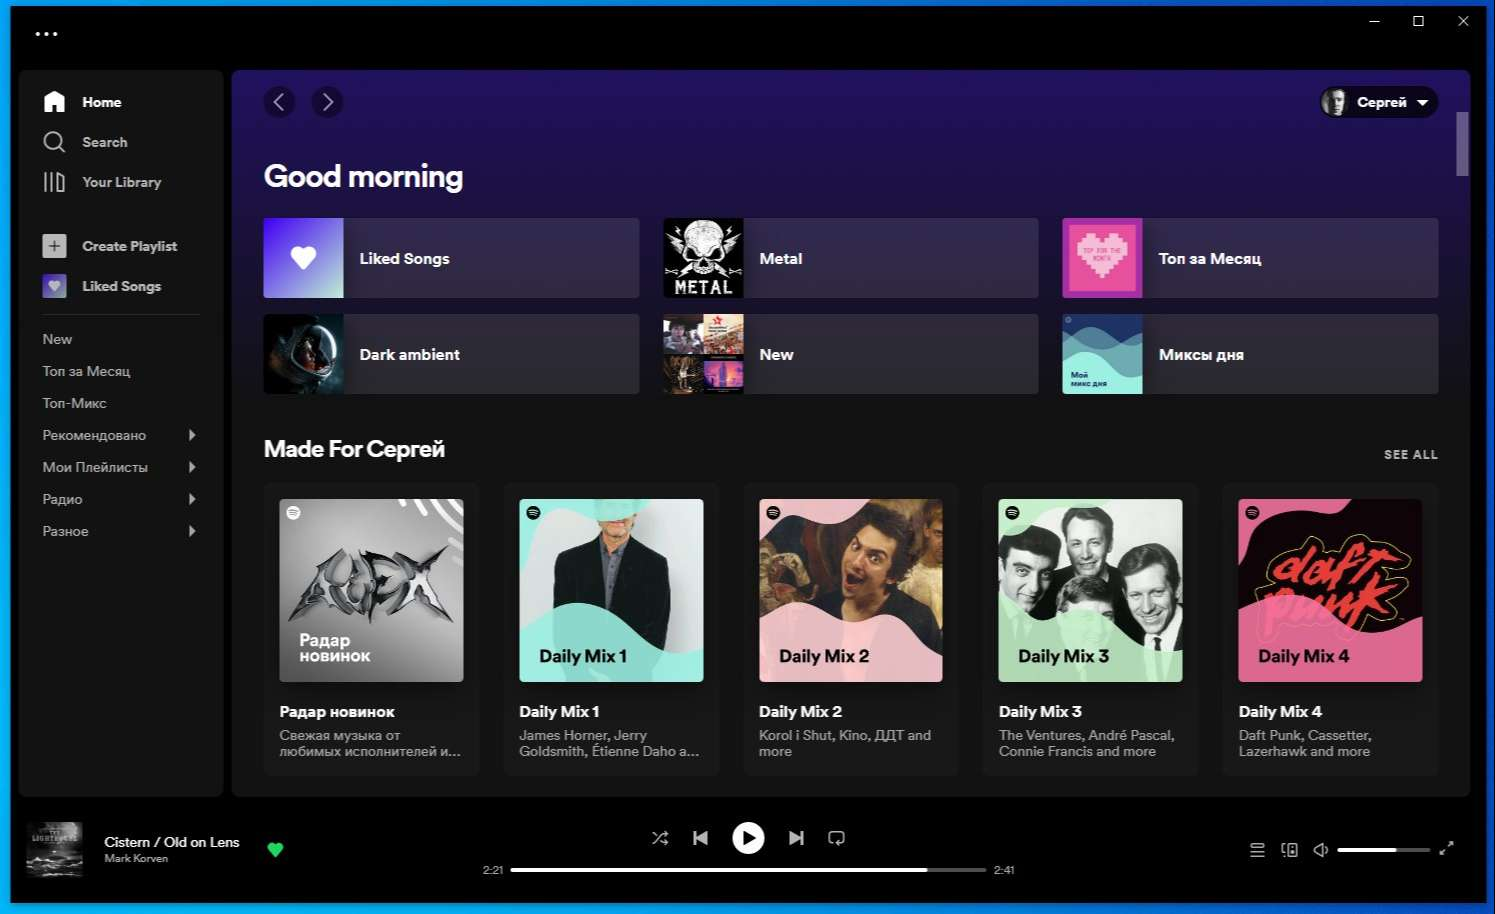
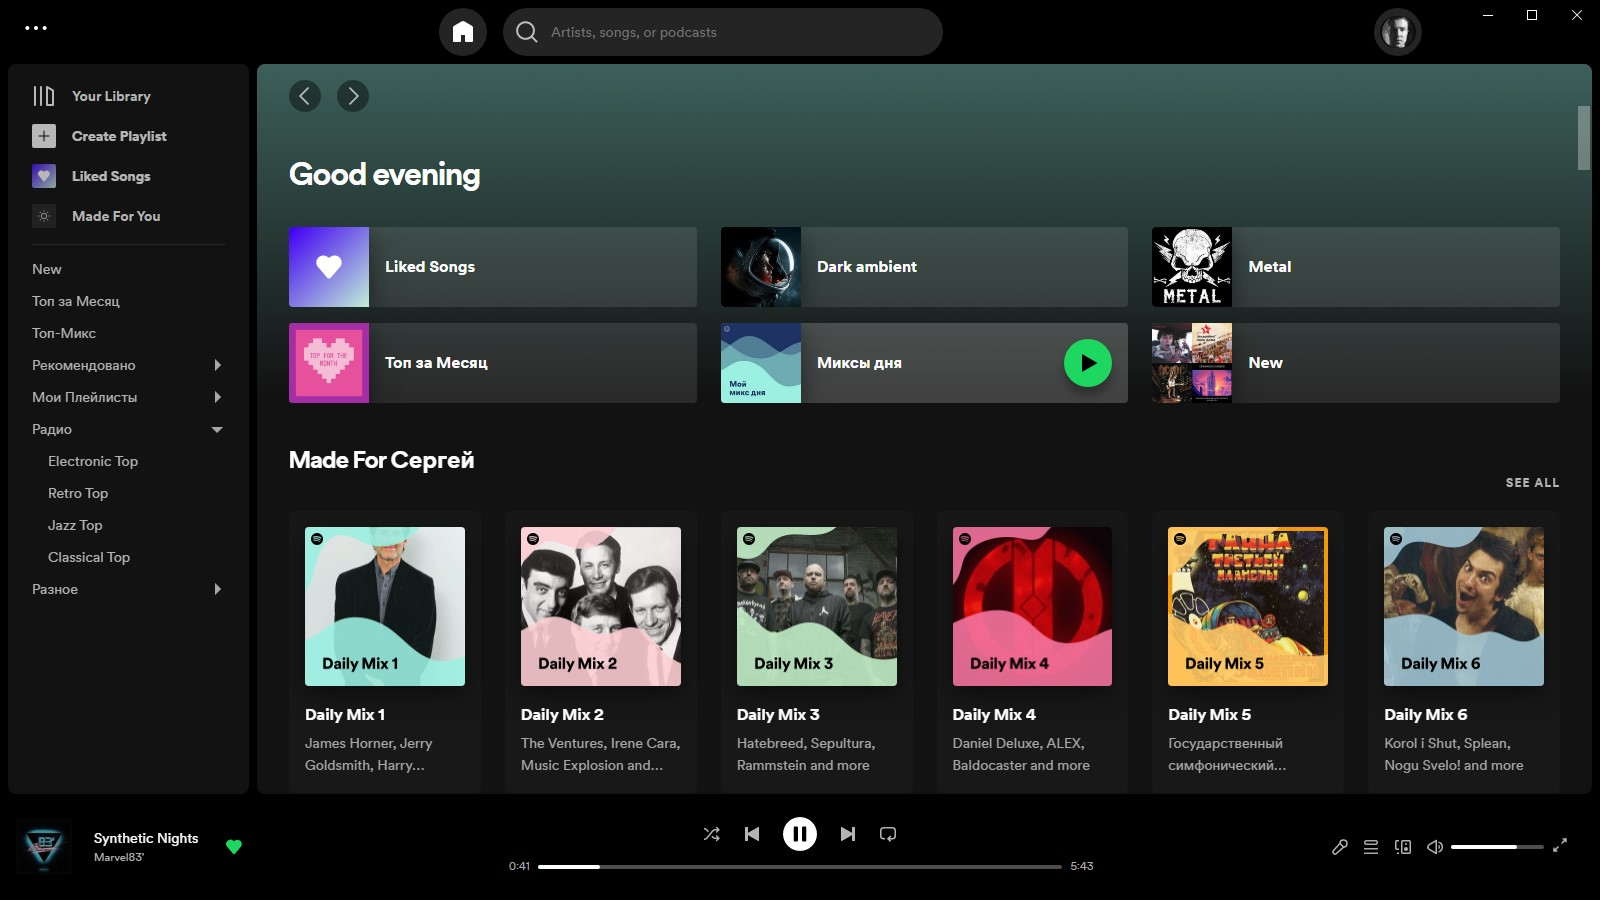
Update
- migration to Spotify version 1.1.91.824
 - ru translation fix
 - minor code fixes and typos

diff --git a/.github/Doc/FAQ.md b/.github/Doc/FAQ.md
@@ -4,7 +4,7 @@
 
 If you notice an error or other malfunction in the mod or in its installation, then do not rush to create a problem report, try this couple of simple steps, this helps to solve a large number of different bugs:
 
-- Completely remove Spotify so that there are no tails from the old versions of the client, [this patch](https://github.com/amd64fox/Uninstall-Spotify) will do it for you in one click, after that, run the SpotX installation again, this way you will perform a clean installation, which helps to avoid a lot of bugs associated with outdated versions.
+- Completely remove Spotify so that there are no tails from the old versions of the client, [this patch](https://github.com/amd64fox/Uninstall-Spotify) will do it for you in one click, after that restart pc and run the SpotX installation again, this way you will perform a clean installation, which helps to avoid a lot of bugs associated with outdated versions.
 - Also, as an additional measure, look at your host file, it should not contain different URLs that can cause the client to work incorrectly, even if you are sure that you did not add anything to it, then go into it anyway and check it for sure, since Some ad blockers that you may have used in the past may have added entries to the host file automatically without your consent.
   To quickly open the host file, press `Win + R` and enter `%WinDir%\System32\Drivers\Etc\hosts`, in order for the system to allow you to edit the file, you need to open it as an administrator.
 - If you still see errors, then install the original client and check this error there, if the error is present in the original client, then here you need to wait for a fix from the Spotify developers.
@@ -66,7 +66,7 @@ If you need your old hosts file, then you can find a backup of it in the same fo
 
 <div align="center"><h2>I want to translate the installer into my language, how can I do that?</h2></div>
 
-If you would like to translate the installer into your language, you can do so here, and if you notice a bug in current languages, you can report it here.
+If you would like to translate the installer into your language, you can do so [here](https://github.com/amd64fox/SpotX/issues/new?assignees=&labels=%F0%9F%8C%90+New+translation&template=installer-new-translation.yml), and if you notice a bug in current languages, you can report it [here](https://github.com/amd64fox/SpotX/issues/new?assignees=&labels=%F0%9F%8C%90+Fix+translation&template=itranslation-fix.yml).
 
 
 

diff --git a/README.md b/README.md
@@ -6,7 +6,7 @@
       <a href="https://t.me/spotify_windows_mod"><img src="https://raw.githubusercontent.com/amd64fox/SpotX/main/.github/Pic/Shields/tg.svg"></a>
       <a href="https://www.youtube.com/results?search_query=https%3A%2F%2Fgithub.com%2Famd64fox%2FSpotX"><img src="https://raw.githubusercontent.com/amd64fox/SpotX/main/.github/Pic/Shields/youtube.svg"></a>
       <a href="https://cutt.ly/8EH6NuH"><img src="https://raw.githubusercontent.com/amd64fox/SpotX/main/.github/Pic/Shields/excel.svg"></a>
-      <a href="https://github.com/amd64fox/SpotX/blob/main/.github/Doc/FAQ.md"><img src="https://raw.githubusercontent.com/amd64fox/SpotX/main/.github/Pic/Shields/faq.svg"></a>
+      <a href="https://github.com/amd64fox/SpotX/blob/main/.github/Doc/FAQ.md#faq"><img src="https://raw.githubusercontent.com/amd64fox/SpotX/main/.github/Pic/Shields/faq.svg"></a>
       </p>
 
    <h2> <div align="center"><b> Modified Spotify Client for Windows </b></div> </h2>
@@ -14,7 +14,7 @@
 <h1>System requirements</h1>
 
 - <strong>OS: Windows 7-11</strong>
-- <strong>Spotify: Recommended official version [1.1.90.859](https://cutt.ly/8EH6NuH)</strong>
+- <strong>Spotify: Recommended official version [1.1.91.824](https://cutt.ly/8EH6NuH)</strong>
 - <strong>For Windows Desktop only (Microsoft store version is not suitable).</strong>
 - <strong>PowerShell: 3 or higher</strong>
 
@@ -181,7 +181,7 @@ or
 
 <h1>FAQ</h1>
 
-- Please see [FAQ](https://github.com/amd64fox/SpotX/blob/main/.github/Doc/FAQ.md)
+- Read [FAQ](https://github.com/amd64fox/SpotX/blob/main/.github/Doc/FAQ.md#faq)
 
 <h1>Credits</h1>
 
